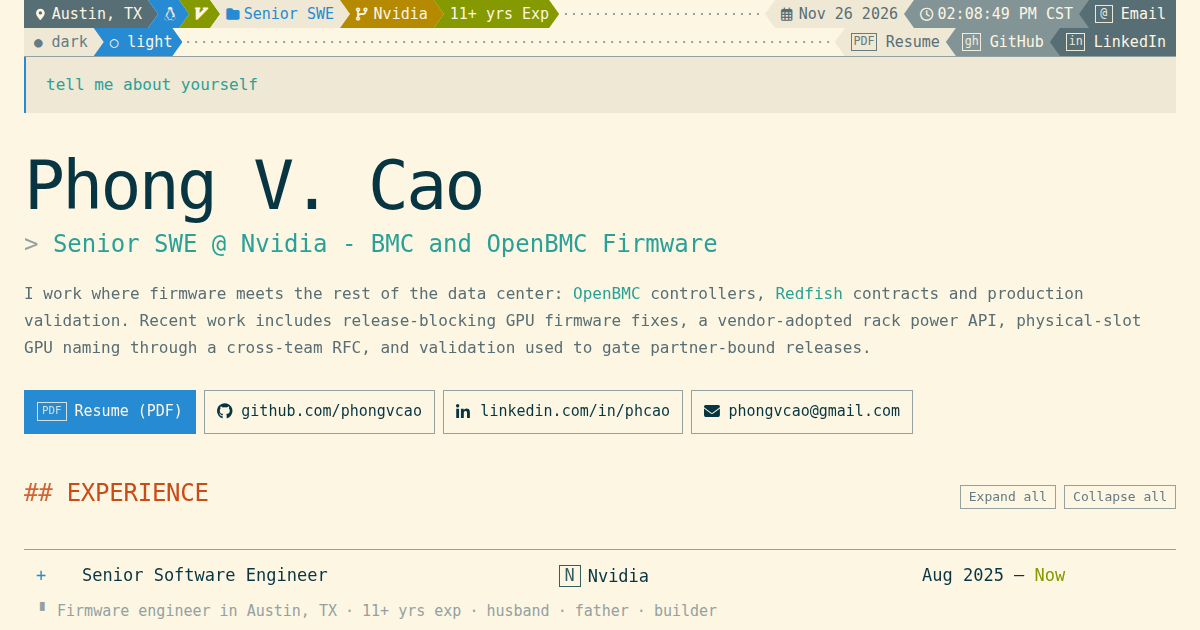
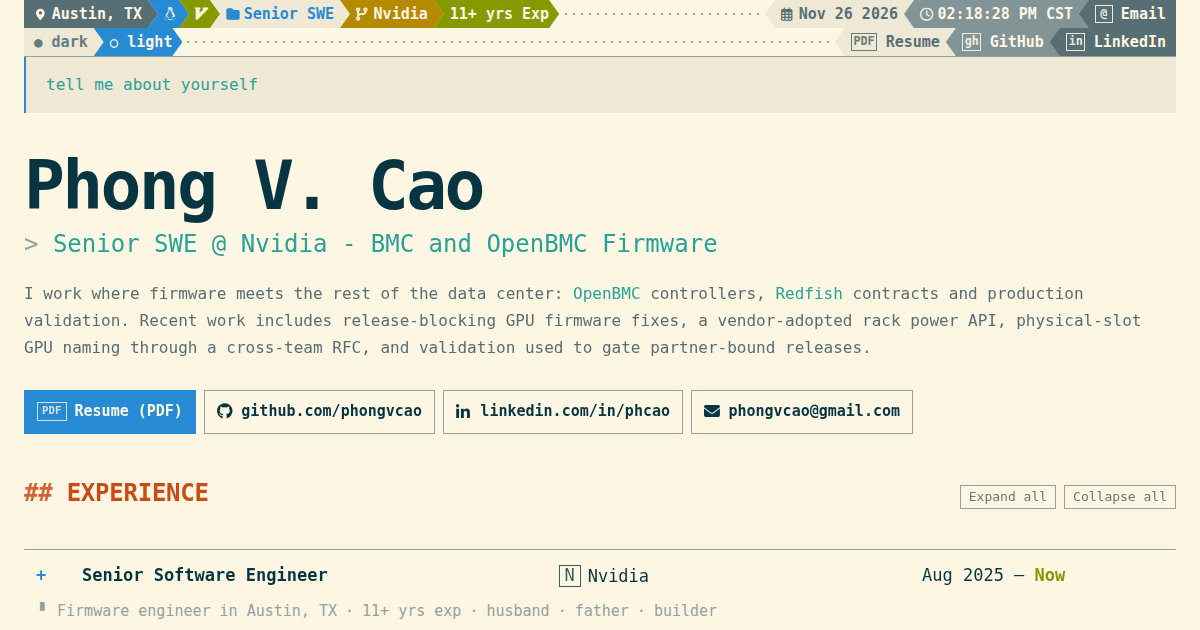
site: the bold face finally loads
local() with a family name resolves to that family's regular file, so every 700 on the page rendered regular. The bold @font-face now names the full face, DejaVuSansM Nerd Font Bold. Monospace keeps the same widths, so nothing reflows; measured ink ratio 1.425.

diff --git a/styles.css b/styles.css
@@ -12,7 +12,8 @@
   font-style: normal;
   font-weight: 700;
   font-display: swap;
-  src: local("DejaVuSansM Nerd Font"), local("DejaVuSansMono Nerd Font"),
+  src: local("DejaVuSansM Nerd Font Bold"), local("DejaVuSansMNerdFont-Bold"),
+    local("DejaVuSansMono Nerd Font Bold"), local("DejaVuSansMonoNerdFont-Bold"),
     url("assets/dejavu-sans-mono-bold.woff2") format("woff2");
 }
 
